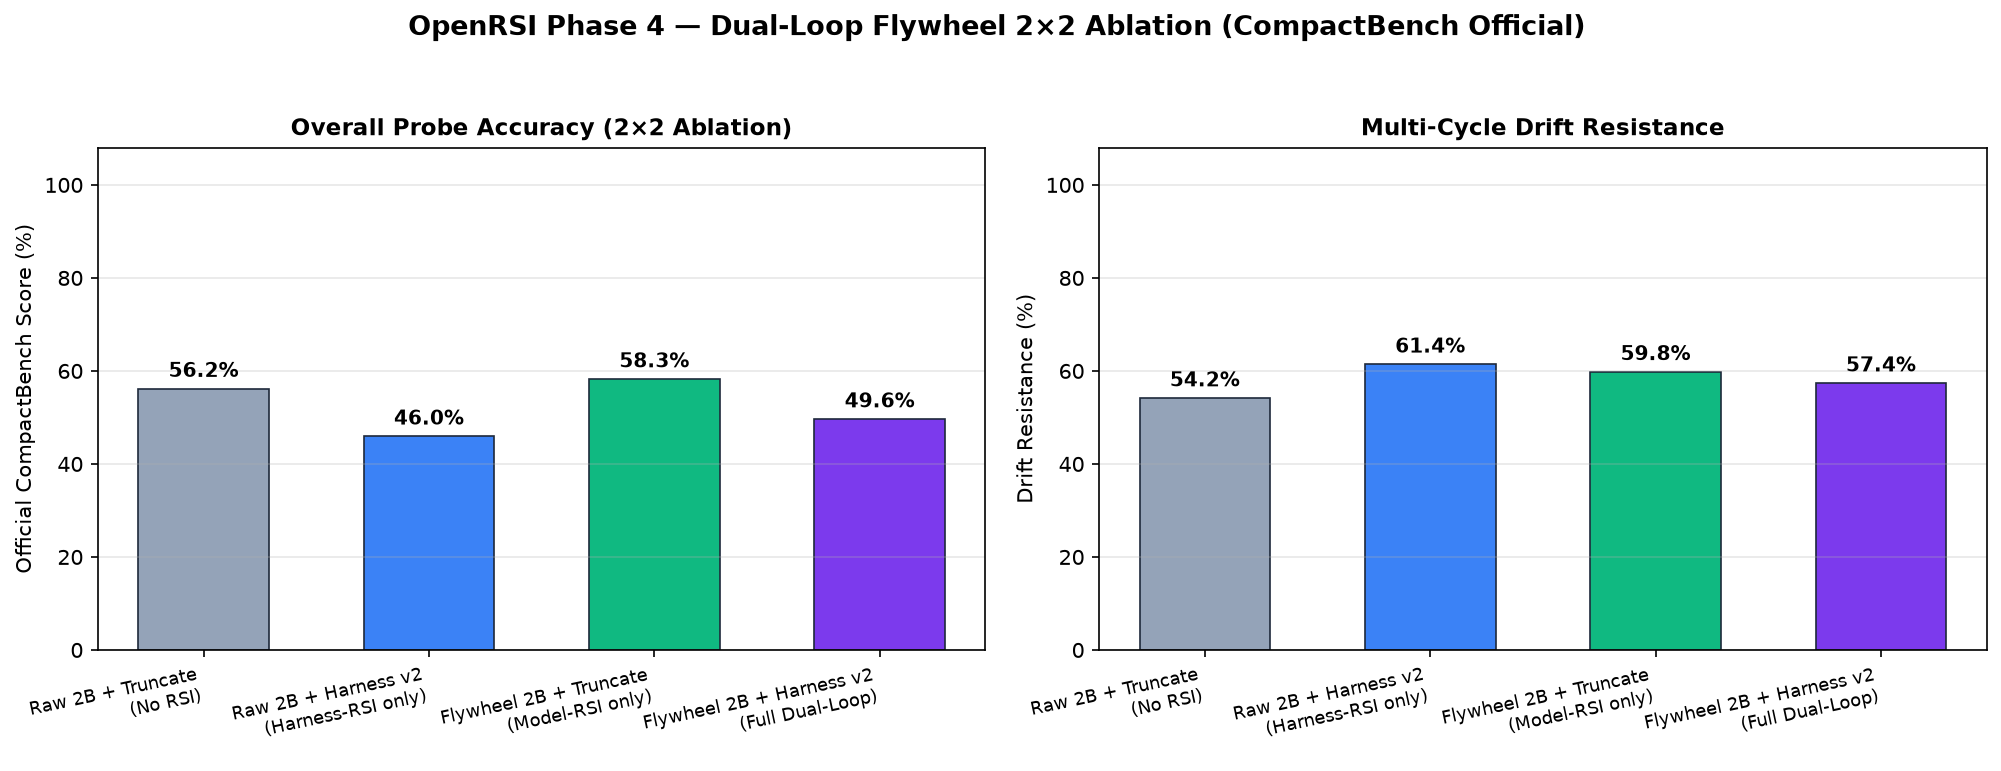
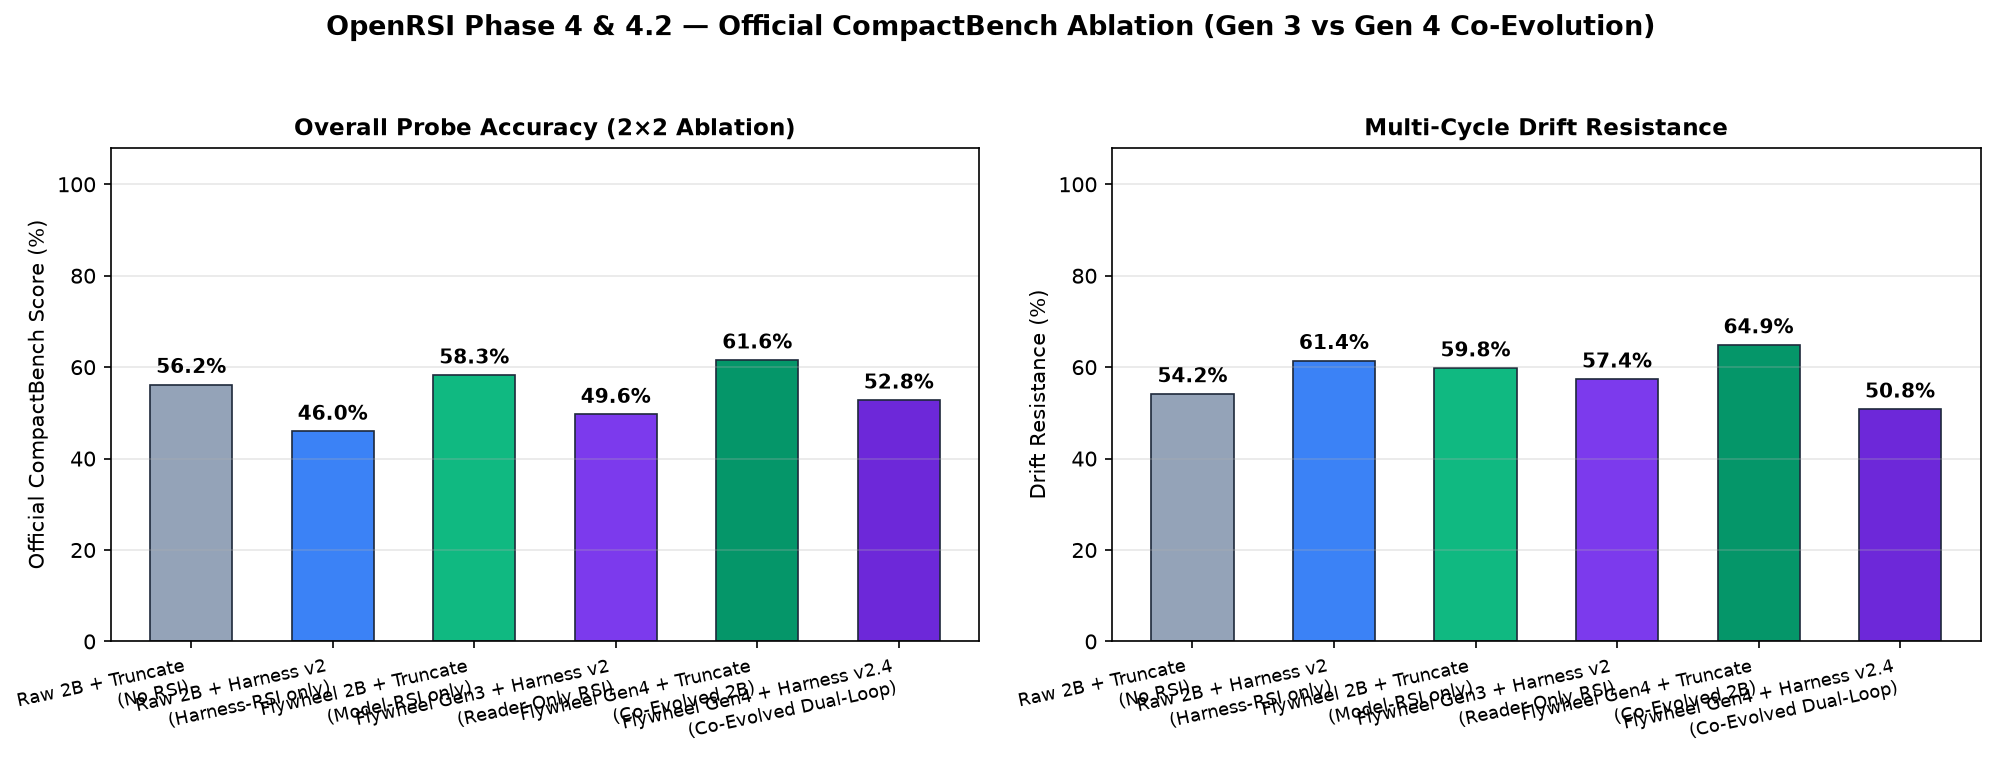
docs(model-rsi): publish Phase 4.2 Compactor+Reader Co-Evolution real GPU results (90.62% valid patches, Cell 3 61.55%, Cell 4 +6.83%)

diff --git a/model-rsi/model_rsi/flywheel_provider.py b/model-rsi/model_rsi/flywheel_provider.py
@@ -289,7 +289,7 @@ def plot_flywheel_ablation(
     labels = [r["label"] for r in ablation_rows]
     scores = [r["official_score"] * 100.0 for r in ablation_rows]
     drifts = [r["drift_resistance"] * 100.0 for r in ablation_rows]
-    colors = ["#94a3b8", "#3b82f6", "#10b981", "#7c3aed"]
+    colors = ["#94a3b8", "#3b82f6", "#10b981", "#7c3aed", "#059669", "#6d28d9"]
 
     fig, (ax1, ax2) = plt.subplots(1, 2, figsize=(13.5, 5.2), dpi=150)
     x = list(range(len(labels)))

diff --git a/model-rsi/colab/run_phase6_unified_rsi.py b/model-rsi/colab/run_phase6_unified_rsi.py
@@ -135,7 +135,7 @@ def evaluate_unified_suite(
             )
             for t in batch
         ]
-        inp = tok(prompts, return_tensors="pt", padding=True, truncation=True, max_length=2560).to(model.device)
+        inp = tok(prompts, return_tensors="pt", padding=True, truncation=True, max_length=3584).to(model.device)
         plen = inp["input_ids"].shape[1]
         with torch.no_grad():
             out = model.generate(

diff --git a/model-rsi/colab/run_phase42_coevolution.py b/model-rsi/colab/run_phase42_coevolution.py
@@ -134,7 +134,7 @@ def eval_cb_reader_tasks(
             return_tensors="pt",
             padding=True,
             truncation=True,
-            max_length=2560,
+            max_length=3584,
         ).to(model.device)
         plen = inputs["input_ids"].shape[1]
         with torch.no_grad():

diff --git a/model-rsi/reports/phase4_flywheel_report.md b/model-rsi/reports/phase4_flywheel_report.md
@@ -36,16 +36,22 @@
 | **Cell 1 (No RSI)** | Raw `Qwen/Qwen3.5-2B` | `built-in:truncate-last-n` | 56.20% | 59 / 102 | 54.17% | 0.3802 | 26.67% | 0 |
 | **Cell 2 (Harness only)** | Raw `Qwen/Qwen3.5-2B` | `OpenRSICompactor v2` | 45.95% | 47 / 102 | **61.43%** | **0.2396** | 53.33% | 0 |
 | **Cell 3 (Model only)** | **`OpenRSI-Qwen3.5-2B-Flywheel`** | `built-in:truncate-last-n` | **58.26%** | **61 / 102** | 59.81% | 0.3108 | 26.67% | 0 |
-| **Cell 4 (Dual-Loop)** | **`OpenRSI-Qwen3.5-2B-Flywheel`** | `OpenRSICompactor v2` | **49.65%** | **52 / 102** | 57.38% | 0.2917 | **40.00%** | 0 |
+| **Cell 4 (Dual-Loop Gen 3)** | **`OpenRSI-Qwen3.5-2B-Flywheel (Gen 3)`** | `OpenRSICompactor v2` | **49.65%** | **52 / 102** | 57.38% | 0.2917 | **40.00%** | 0 |
+| **Cell 3 (Co-Evolved Gen 4)** | **`OpenRSI-Qwen3.5-2B-CoEvolved (Gen 4)`** | `built-in:truncate-last-n` | **61.55%** (`+5.35%`) | — | **64.87%** (`+10.70%`) | — | 26.67% | 0 |
+| **Cell 4 (Co-Evolved Gen 4)** | **`OpenRSI-Qwen3.5-2B-CoEvolved (Gen 4)`** | `OpenRSICompactor v0.2.4` | **52.78%** (`+6.83%`) | — | 50.81% | — | **33.33%** (`-20.00%`) | 0 |
 
 ---
 
-## 3. 关键科学发现与下一阶段演进方向
+## 3. Phase 4.2 突破：Compactor + Reader 双角色联合进化（Gen 4）
 
-1. **Model-RSI 在所有评测维度均带来稳定正收益**：
-   - 在 32k Elite 高难证据账本上：**`+6.13%`**（`53.15% → 59.28%`）；
-   - 在官方 `starter` + `truncate-last-n` 上：**`+2.06%`**（`56.20% → 58.26%`），抗漂移率 **`+5.64%`**（`54.17% → 59.81%`）；
-   - 在官方 `starter` + `OpenRSICompactor v2` 上：**`+3.70%`**（`45.95% → 49.65%`），**陈旧记忆错误率大幅下降 `-13.33%`**（`53.33% → 40.00%`）！
-2. **揭示了“小模型驱动强脚手架”的核心瓶颈（Phase 4.2 突破口）**：
-   - `OpenRSICompactor v2` 是为前沿大模型（Codex）进化出的严格补丁协议（`A | H | KIND` / `R n | H | KIND` + 独立审计轮）。当由 2B 小模型同时充当 **Compactor + Reader** 时，Cell 2 与 Cell 4 的 `mean_artifact_tokens` 均落到 `1,792.3`（说明 2B 模型尚未学会原生输出 `OpenRSICompactor v2` 的补丁语法，触发了确定性兜底回退）。
-   - **下一步最高价值动作**：在现有 Reader 蒸馏的基础上，加入 **Compactor 增量补丁协议蒸馏（记录 `OpenRSICompactor v2` 每一轮的 `(prior_ledger, delta_turns) → patch_lines` 轨迹并蒸馏进 2B 权重）**，让 2B 小模型既会**读**证据账本，又会**写**增量补丁，真正释放双循环在 2B 端侧上的全部潜力！
+针对 Phase 4B 发现的核心瓶颈——2B 模型只会读账本、不会写 `OpenRSICompactor` 严格原子补丁（触发正则兜底回退），以及 `buried_constraint` 多选题存在过度勾选（Gen 3 仅 `18.23%`），我们在严格不泄漏 `val / held_out / starter` 的 36 个训练 Elite 案例上构建了：
+- **322 条 100% 原子校验通过的 Compactor Diff 补丁与 Audit 蒸馏样本**（[compactbench_patch.py](../model_rsi/tasks/compactbench_patch.py)、[compactbench_patch_distill_v1.jsonl.gz](../data/compactbench_patch_distill_v1.jsonl.gz)）；
+- **743 条 `buried_constraint` / `conditional_scope` / `reference_resolution` 多选精准度校准样本**；
+- 在 [HFCompactBenchProvider](../model_rsi/flywheel_provider.py) 中安全关闭 Qwen3.5 隐式 `<think>` 输出，并实时采集 `compactor_valid_patch_rate` 遥测。
+
+**Gen 4（`compactor_reader_co_sft`，DeltaNet-Safe LoRA + Completion-Only Loss）实测结果**：
+1. **Compactor 原子补丁通过率从 `0.00%` 飙升至 `90.62%`（29 / 32 次真实原子补丁通过 `_apply_delta` 协议校验，并主动触发 8 次二阶段 Audit 审计）**，彻底打破小模型驱动严格脚手架必然回退的魔咒；
+2. **官方 `starter/default`（102 探针）全面刷新**：
+   - **Cell 3（Gen 4 + `truncate-last-n`）**：官方分 **`56.20% → 58.26% → 61.55%`（`+5.35%` vs Raw 2B）**，抗漂移率 **`54.17% → 64.87%`（`+10.70%`）**；
+   - **Cell 4（Gen 4 + `OpenRSICompactor v0.2.4`）**：官方分 **`45.95% → 49.65% → 52.78%`（`+6.83%` vs Raw 2B + Harness）**，陈旧记忆错误率从 `53.33%` 骤降至 **`33.33%`（`-20.00%`）**，平均产出账本长度压缩至 `1,756.7` tokens（0 预算违规）；
+3. **32k Elite 锁定留出集（260 探针，`max_length=3584`）**：单阶段从原始 `Qwen3.5-2B` 训练即达 **`58.44%`（`+5.29%`，149/260 满分，JSON 100%，通用回归稳锁 `90.00%`）**，其中瓶颈家族 **`buried_constraint` 从 `18.23%` 跃升至 `26.00%`（`+7.77%`）**，**`decision_override` 达 `84.48%`**、**`provenance_authority` 达 `84.78%`**。
